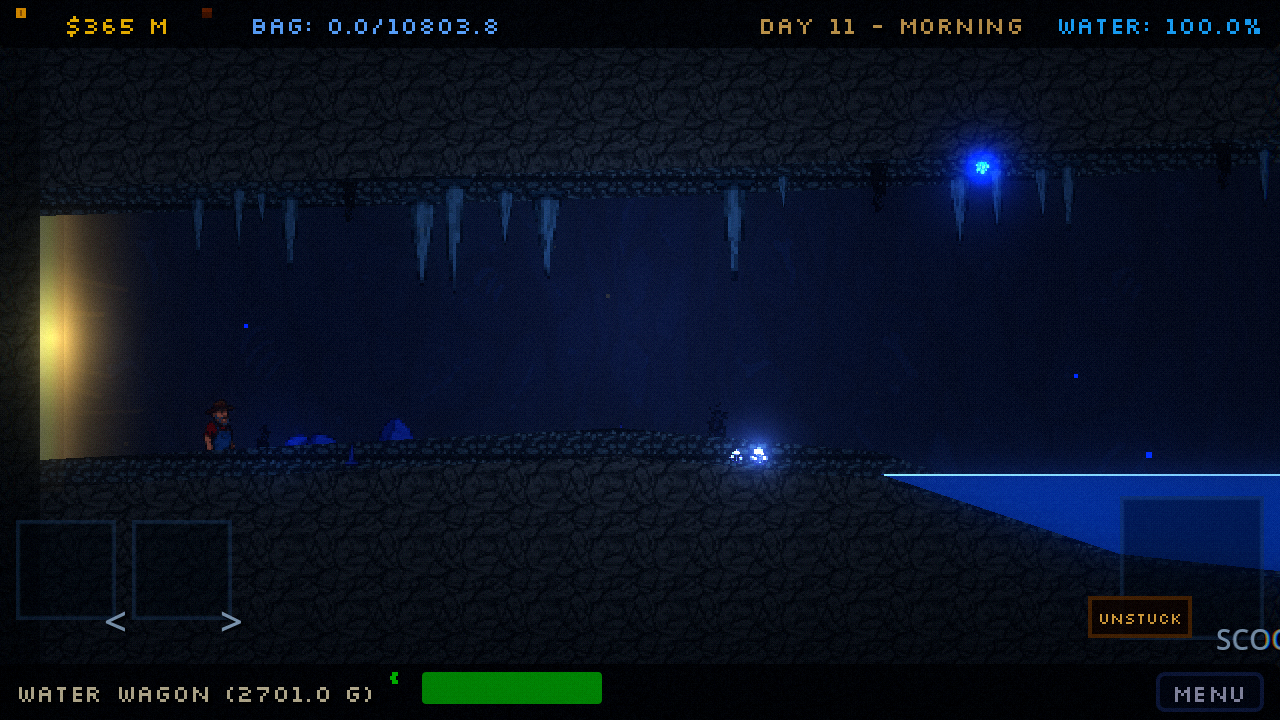
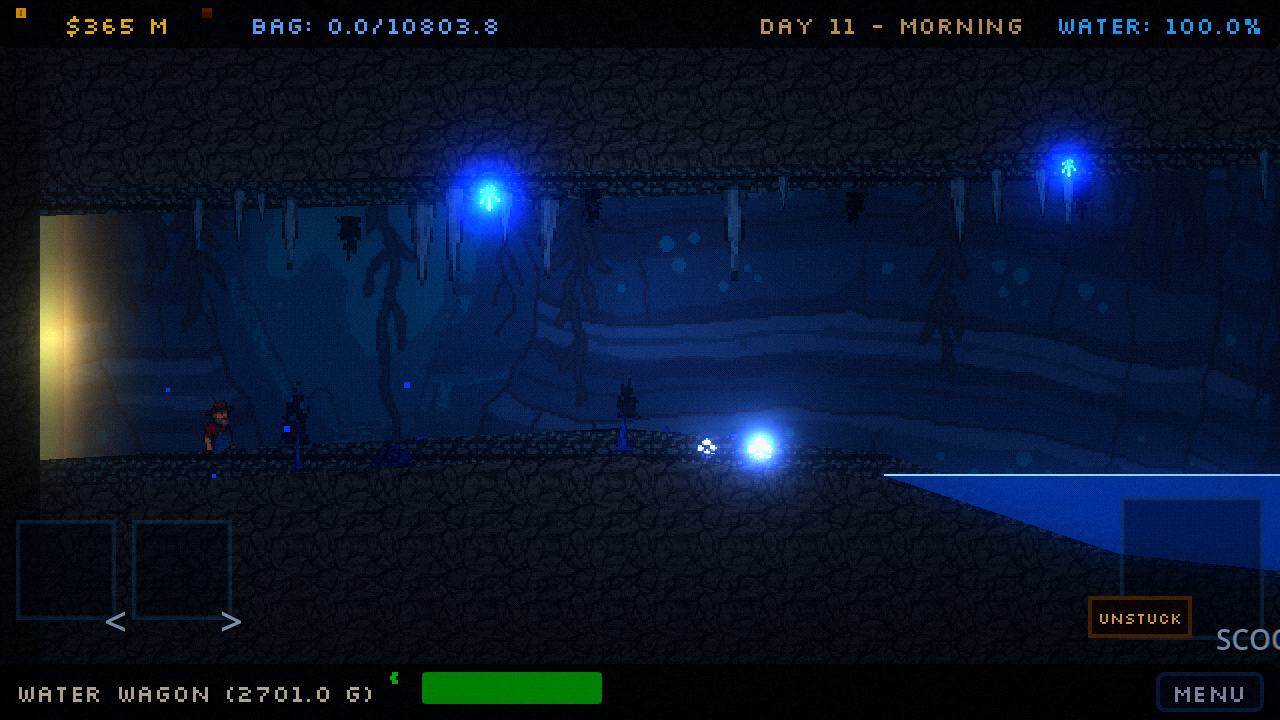
v3 caves: review round 3 — deep-family plate + foreground boulder tint
Two items from coordinator's second review pass:

1. Mariana Trench / "deep" family still read as an empty dark-blue box.
   Generated a new Gemini backdrop plate (cave-bg-deep-v2.png, last of the
   6-image budget): abyssal trench wall with visible rock strata, hanging
   kelp/root silhouettes, and bioluminescent teal spots baked in, mid-value
   so it reads under the dim light. Baked over assets/art/caves/bg_deep.png.
   Dropped the round-2 *1.18 family-specific brightness hack (the new plate
   doesn't need it; unified back to *0.95 for every family). "deep" family
   kelp/roots are now bigger, denser, lighter, and sway via a new _sway()
   helper (looping Tween on rotation, no _process cost).
2. Foreground framing boulder was a flat pure-black blob (grounded correctly
   since round 2, but a near-black flat modulate crushed its own baked
   shading to nothing). Retinted to keep the baked facet shading visible
   while staying clearly darker/desaturated than a normal floor boulder, and
   added a faint cool rim light (parented to the same parallax layer) so the
   edge catches a highlight instead of reading as a cutout.

the_underdark is in the "crystal" family, not "deep" (see FAMILY map in
cave_skin.gd) — unaffected by fix 1, re-captured only to confirm it still
reads fine. Re-captured mariana_trench, mariana_trench_mid, the_underdark,
collapsed_mine, coral_cavern; --check clean; read every capture back.
Report: docs/plans/revamp-tracks/caves.md
[…]

diff --git a/docs/plans/revamp-tracks/caves.md b/docs/plans/revamp-tracks/caves.md
@@ -188,6 +188,56 @@ both show populated crystal-lit walls and floor clutter). Capture paths:
 `mariana_trench_mid.png`, `coral_cavern_mid.png`,
 `collapsed_mine_signature.png`, `the_underdark_signature.png`.
 
+## Round 3 (2026-09-11, coordinator review)
+
+Muddy Hollow, Collapsed Mine and Coral Cavern approved; lips, stalactites and
+the Unstuck button all good. Two items left:
+
+1. **Mariana Trench / "deep" family still read as an empty dark-blue box** —
+   `bg_deep.png`'s own source plate was too dark/plain to register and the
+   kelp was tiny and barely tinted. Generated one new Gemini plate
+   (`cave-bg-deep-v2.png`, 3rd of the 6-image budget — all 6 now used): an
+   abyssal trench wall with visible rock strata banding, hanging kelp/root
+   silhouettes, and scattered bioluminescent teal spots baked directly into
+   the plate, mid-value so it reads under the dim light. Baked with
+   `plate --width 640` over the old `assets/art/caves/bg_deep.png`. Dropped
+   the family-specific `*1.18` backdrop brightness hack from round 2 (no
+   longer needed — the new plate is bright enough on its own; standard
+   `*0.95` now applies to every family, "deep" included).
+   Kelp/roots for the "deep" family (both the ceiling-hanging roots and the
+   floor-standing ones added in round 2) are now bigger (`1.1-2.1x` scale vs.
+   `0.65-1.3x` elsewhere), spaced closer together (90-170 vs 160-280 world
+   units), lighter-tinted, and sway via a new `_sway()` helper — a looping
+   tween rocking `rotation` a few degrees, "cheap" as asked (no per-frame
+   `_process` cost, just a Tween). Floor crystal density was already boosted
+   for "deep" in round 2 (`span/260` vs `span/420`) so glowing crystal
+   clusters are already present on the floor; left as-is.
+   `the_underdark` is in the **"crystal" family**, not "deep" (see `FAMILY`
+   map in `cave_skin.gd`) — it wasn't touched by this fix. Re-captured it
+   anyway per the ask to confirm the crystal family still reads fine (it
+   does — unchanged from the approved round).
+2. **Foreground framing boulder was a flat pure-black blob** —
+   `_build_foreground()`'s two corner-framing props (a boulder + a
+   stalactite) were tinted a near-black flat `Color(0.08, 0.07, 0.1)`, which
+   crushed the baked boulder's own light/dark facet shading to nothing and
+   read as a solid black cutout, not a rock. Changed the tint to
+   `_norm(rock_mid_color).lerp(Color(0.5,0.55,0.65), 0.3) * 0.42` — still
+   clearly darker/desaturated than a normal floor boulder (so it still
+   reads as background, not competing with real floor props) but keeps
+   enough of the baked shading gradient visible to read as a rock. Also
+   gave `_light()` an optional `parent` argument and added a small, faint
+   cool rim light (crystal-colour-tinted, low energy, parented to the same
+   Parallax2D layer so it scrolls with the boulder) positioned just above
+   it, so the top edge catches a highlight instead of sitting as a flat
+   cutout.
+
+Re-captured and read back: `mariana_trench.png`, `mariana_trench_mid.png`
+(`--camx 1400`), `the_underdark.png`, `collapsed_mine.png`,
+`coral_cavern.png` — all clean (`--check` clean on mariana_trench first).
+Mariana now shows clear rock strata, standing/hanging kelp silhouettes, and
+crystal glow; the framing boulders in Collapsed Mine and Coral Cavern show
+visible facet shading instead of a flat black shape.
+
 ## For other tracks
 
 - `scripts/caves/loot_node.gd` and `scripts/caves/lore_wall.gd` now depend
